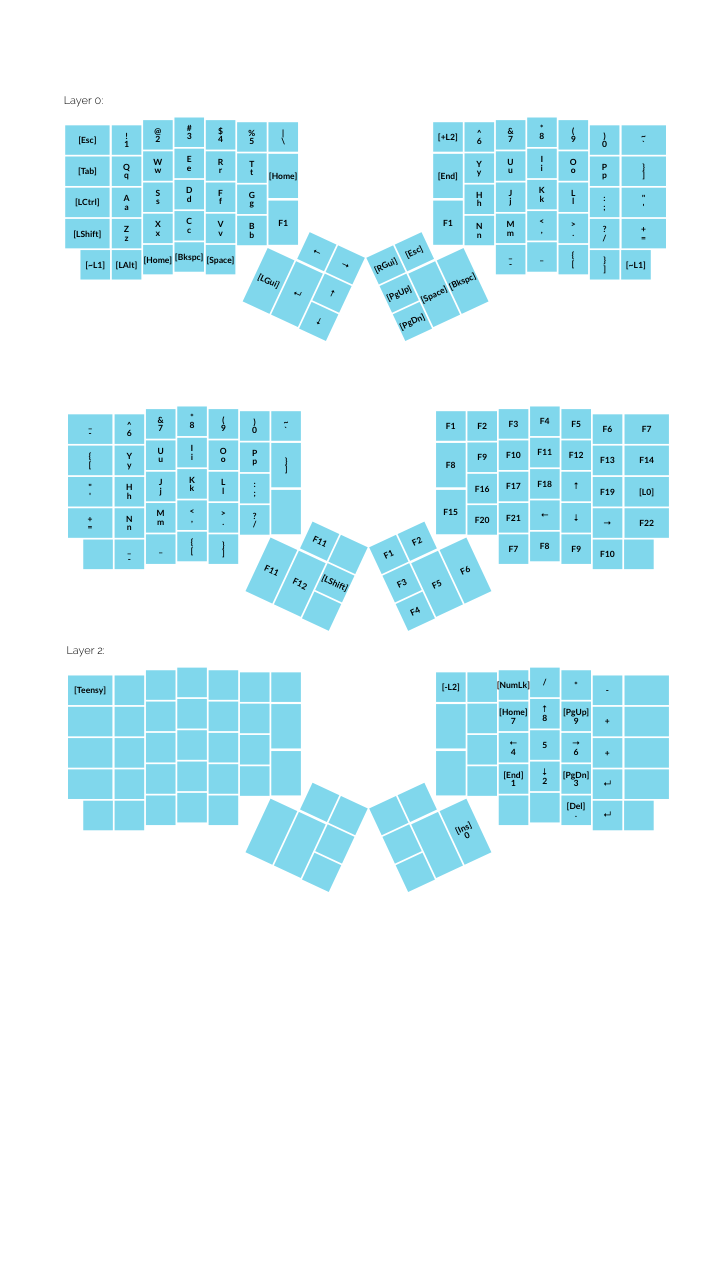
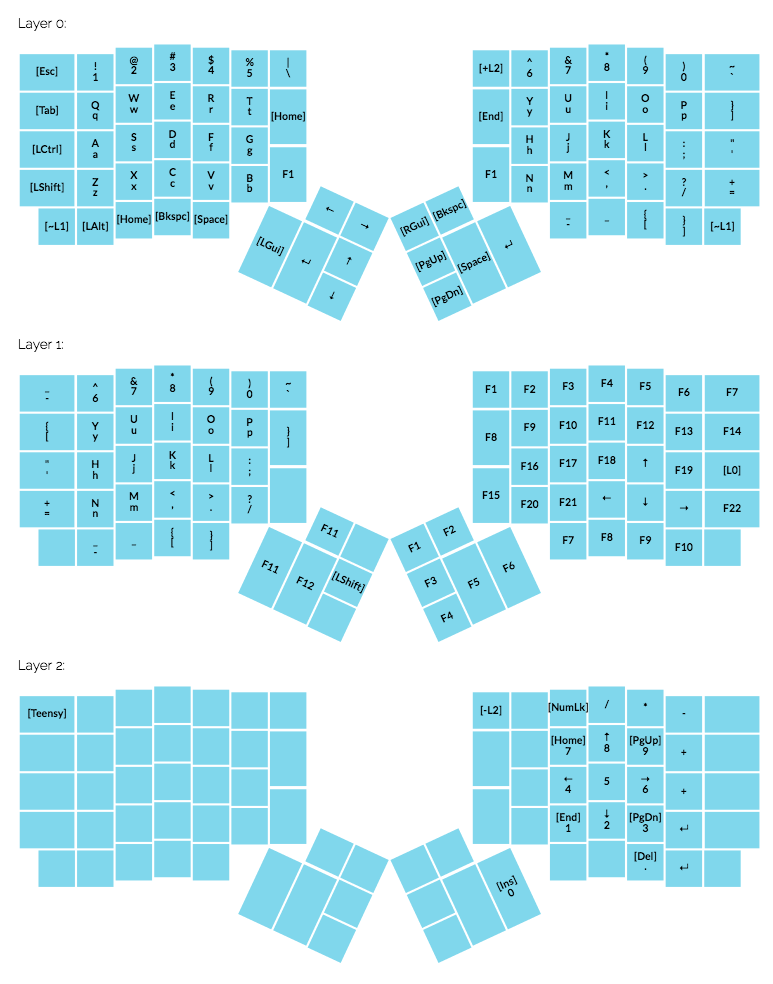
Update layout

diff --git a/keyboard/ergodox/layout/default--layout.c b/keyboard/ergodox/layout/default--layout.c
@@ -80,9 +80,9 @@ KB_MATRIX_LAYER(
 	KEY_h_H,	KEY_j_J,	KEY_k_K,	KEY_l_L,	KEY_Semicolon_Colon,	KEY_SingleQuote_DoubleQuote,	
 	KEY_F1,	KEY_n_N,	KEY_m_M,	KEY_Comma_LessThan,	KEY_Period_GreaterThan,	KEY_Slash_Question,	KEY_Equal_Plus,	
 	KEY_Dash_Underscore,	0x2D,	KEY_LeftBracket_LeftBrace,	KEY_RightBracket_RightBrace,	1,	
-	KEY_RightGUI,	KEY_Escape,	
+	KEY_RightGUI,	KEY_DeleteBackspace,	
 	KEY_PageUp,	0,	0,	
-	KEY_PageDown,	KEY_Spacebar,	KEY_DeleteBackspace	
+	KEY_PageDown,	KEY_Spacebar,	KEY_ReturnEnter	
 ),
 // LAYER 1
 KB_MATRIX_LAYER(
